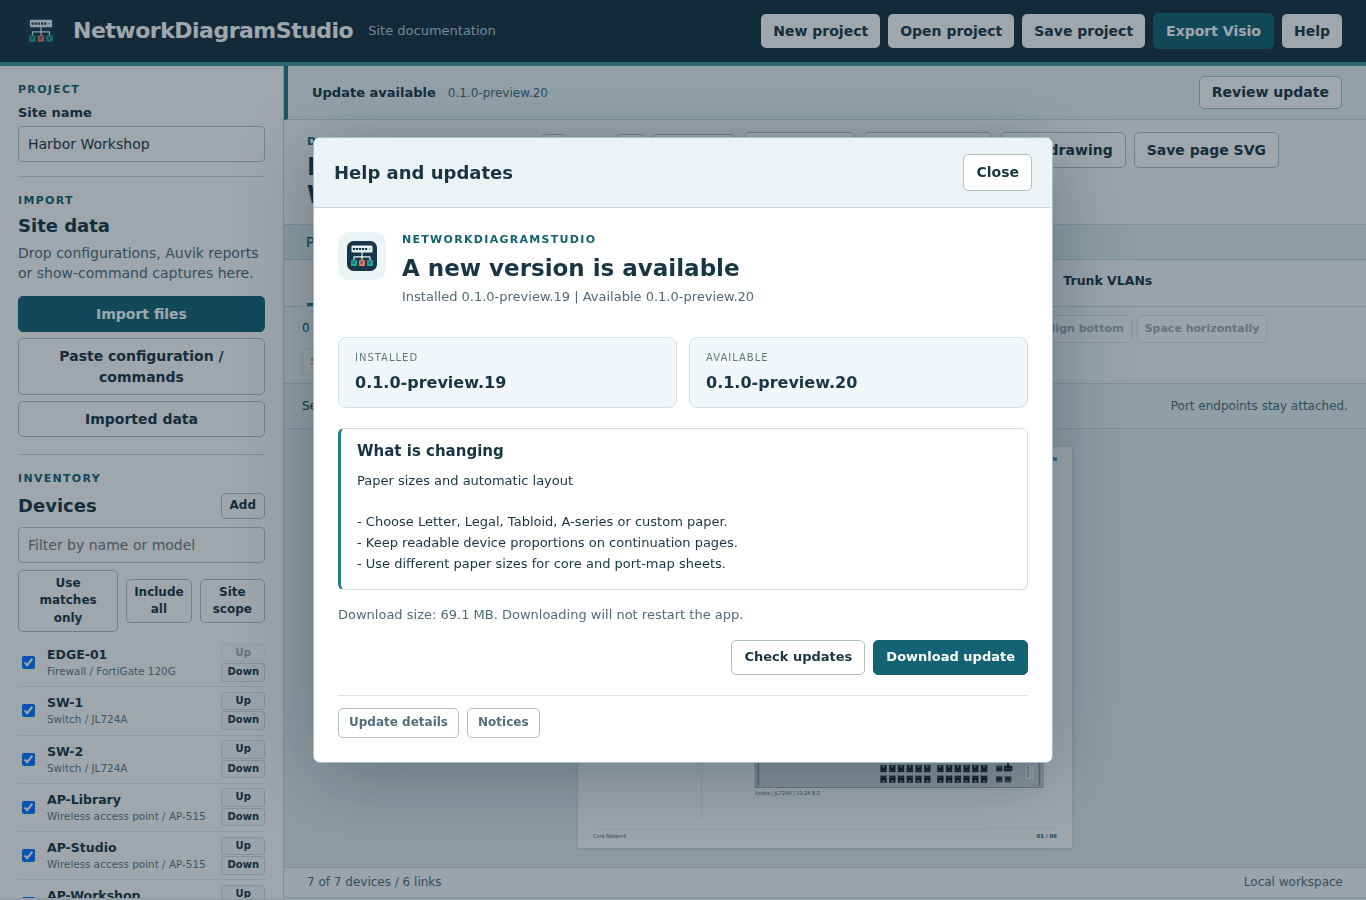
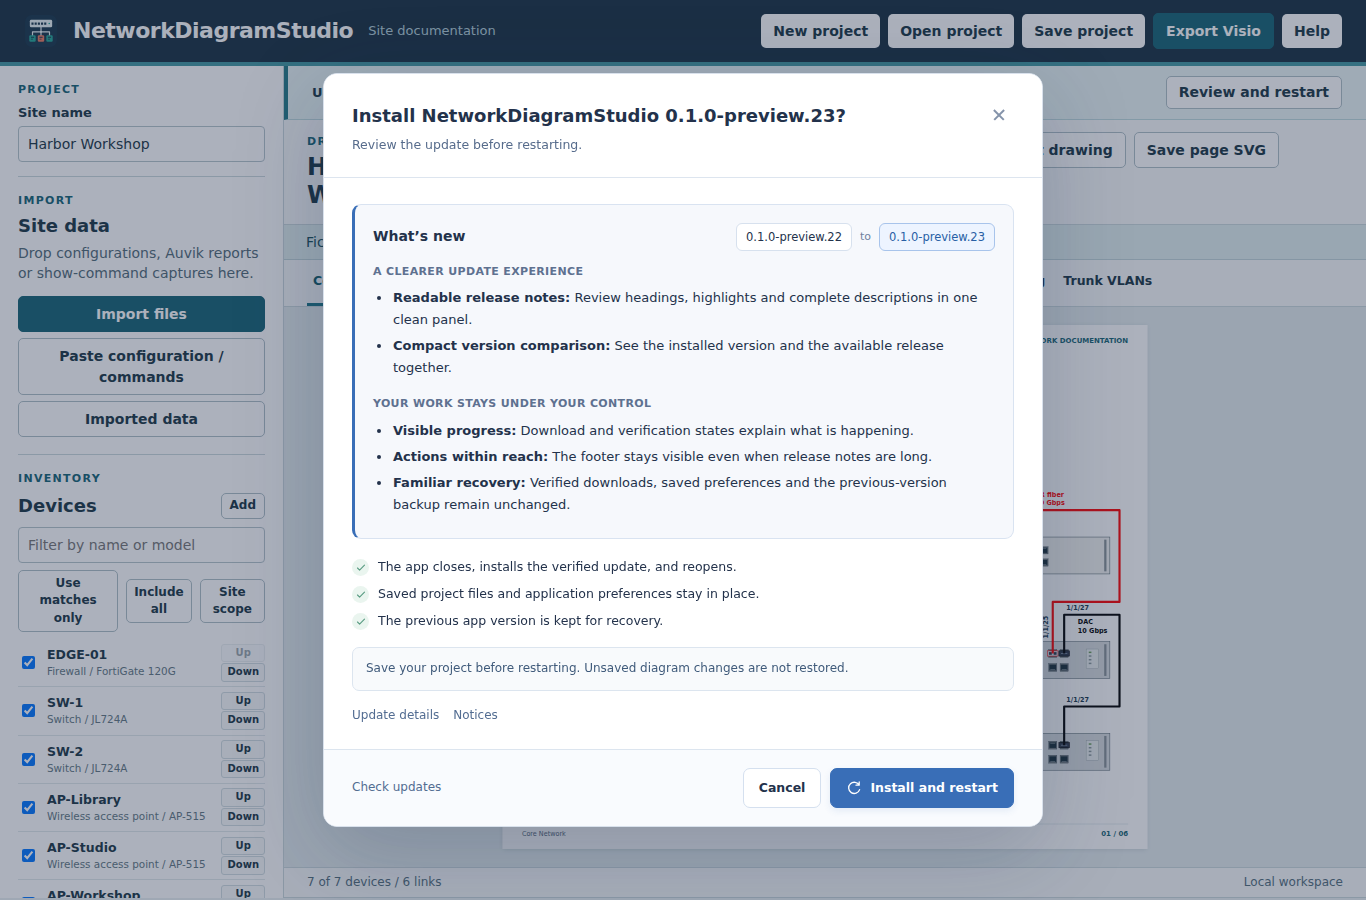
Polish update review with formatted release notes and fixed actions (preview.23)

Changed region(s): [[0.2152, 0.0622, 0.9839, 0.9644], [0.8302, 0.0622, 0.9839, 0.1244]]

diff --git a/src/web/style.css b/src/web/style.css
@@ -34,4 +34,28 @@
 .compact-swatch-properties{grid-template-columns:repeat(4,minmax(0,1fr))}
 @media(max-width:620px){.compact-swatch-properties{grid-template-columns:repeat(2,minmax(0,1fr))}}
 
-.form-columns{display:grid;grid-template-columns:repeat(2,minmax(0,1fr));grid-template-rows:auto auto;grid-auto-flow:column;gap:4px 12px}.form-columns[hidden]{display:none}.page-size-preview{padding:12px;background:#edf5f7;border:1px solid #cbdde2;border-radius:6px}.paper-reset{font-size:12px}.update-banner{display:flex;align-items:center;justify-content:space-between;gap:16px;padding:10px 24px;background:#eaf6f6;border-bottom:1px solid #bedade;border-left:4px solid #227987}.update-banner[hidden]{display:none}.update-banner strong{font-size:13px}.update-banner span{font-size:12px;color:#3e6974;margin-left:12px}.update-banner button{padding:5px 12px;background:#fff}.update-panel{padding:24px!important}.update-intro{display:flex;gap:16px;align-items:flex-start}.update-intro img{width:48px;height:48px;padding:8px;background:#edf4f6;border-radius:12px}.update-intro h2{font-size:23px;line-height:1.25}.update-intro .hint{font-size:13px;overflow-wrap:anywhere}.update-versions{display:grid;grid-template-columns:1fr 1fr;gap:12px;margin:20px 0}.update-versions>div{background:#f2f6f8;border:1px solid #d4e0e5;border-radius:8px;padding:13px 16px}.update-versions span{display:block;font-size:10px;letter-spacing:1px;color:#607782;margin-bottom:5px}.update-versions strong{font-size:16px}.update-notes{border:1px solid #d4e0e5;border-left:3px solid #257d89;border-radius:6px;padding:14px 16px;margin:16px 0}.update-notes h3{margin:0 0 10px}.update-notes>div{max-height:155px;overflow:auto;font-size:13px;line-height:1.6}.update-reminder{color:#526b77;font-size:13px;margin:16px 0}.update-progress>div{font-size:12px;margin-bottom:6px}.update-progress progress{width:100%;height:10px;accent-color:#217b89}.update-actions{display:flex;justify-content:flex-end;gap:8px}.update-support{border-top:1px solid #dbe4e7;margin-top:20px;padding-top:12px;display:flex;gap:8px}.update-support button{font-size:12px;padding:5px 10px;color:#536e7b}.update-panel [hidden]{display:none!important}@media(max-width:600px){.update-panel{padding:16px!important}.update-intro h2{font-size:20px}.update-versions{grid-template-columns:1fr}.form-columns{grid-template-columns:1fr;grid-template-rows:none;grid-auto-flow:row}.update-banner{padding:8px 12px}.update-banner span{display:block;margin:2px 0}}
+.form-columns{display:grid;grid-template-columns:repeat(2,minmax(0,1fr));grid-template-rows:auto auto;grid-auto-flow:column;gap:4px 12px}.form-columns[hidden]{display:none}.page-size-preview{padding:12px;background:#edf5f7;border:1px solid #cbdde2;border-radius:6px}.paper-reset{font-size:12px}@media(max-width:600px){.form-columns{grid-template-columns:1fr;grid-template-rows:none;grid-auto-flow:row}}
+.update-banner{display:flex;align-items:center;justify-content:space-between;gap:16px;padding:10px 24px;background:#eaf6f6;border-bottom:1px solid #bedade;border-left:4px solid #227987}
+.update-banner[hidden]{display:none}.update-banner strong{font-size:13px}.update-banner span{font-size:12px;color:#3e6974;margin-left:12px}.update-banner button{padding:5px 12px;background:#fff}
+#dialog.update-dialog{width:min(720px,calc(100vw - 32px));max-height:min(940px,calc(100dvh - 32px));overflow:hidden;border:1px solid #d9e1ec;border-radius:14px;box-shadow:0 24px 90px #152c4c38;background:#fff;color:#23324b}
+.update-dialog[open]{display:flex;flex-direction:column}.update-dialog::backdrop{background:#23314c60}
+.update-dialog .modalhead{flex:none;align-items:flex-start;gap:18px;padding:26px 28px 6px;background:#fff;border:0}
+.update-dialog #dialog-title{font-size:18px;line-height:1.4;padding-top:3px;overflow-wrap:anywhere}
+.update-dialog #close{flex:none;width:30px;height:30px;padding:0;border:0;background:transparent;color:#8493aa;font-size:0;font-weight:400;border-radius:6px;position:relative}
+.update-dialog #close:before,.update-dialog #close:after{content:'';position:absolute;left:8px;top:14px;width:14px;height:1.5px;background:currentColor;transform:rotate(45deg)}.update-dialog #close:after{transform:rotate(-45deg)}.update-dialog #close:hover{background:#edf2f8;color:#294267}
+#dialog-body.update-panel{padding:0;display:flex;flex-direction:column;min-height:0;overflow:hidden}
+.update-subtitle{flex:none;padding:0 28px 22px;margin:0;border-bottom:1px solid #dde5ef;font-size:12.5px;color:#576c8c;line-height:1.5}
+.update-content{min-height:0;overflow:auto;overscroll-behavior:contain;padding:26px 28px 22px;scrollbar-width:thin;scrollbar-color:#bcc9dc transparent}
+.update-notes{border:1px solid #d9e3f1;border-left:3px solid #396eb7;border-radius:9px;padding:18px;background:#f6f8fc}
+.update-notes-head{display:flex;align-items:center;justify-content:space-between;gap:14px;flex-wrap:wrap;margin-bottom:13px}
+.update-notes-head h2{font-size:14px;line-height:1.4}.update-versions{display:flex;align-items:center;gap:8px;flex-wrap:wrap;font-size:11.5px;line-height:1.4}
+.update-version{padding:5px 9px;border:1px solid #d7e1ee;border-radius:6px;background:#fff;overflow-wrap:anywhere}.update-version-new{border-color:#a8c4eb;color:#285fa5;background:#edf4ff}.update-version-to{color:#70829e;font-size:11px}
+.update-release-notes{font-size:13px;line-height:1.65;overflow-wrap:anywhere}.update-release-notes h3{font-size:11px;line-height:1.5;font-weight:700;letter-spacing:.35px;text-transform:uppercase;color:#5e7190;margin:18px 0 7px}.update-release-notes h3:first-child{margin-top:0}
+.update-release-notes p{margin:9px 0}.update-release-notes ul{padding-left:19px;margin:7px 0 12px}.update-release-notes li{padding-left:1px;margin:5px 0}.update-release-notes>:last-child{margin-bottom:0}.update-release-notes strong{font-weight:650}.update-release-notes code{font:12px/1.6 Consolas,monospace;background:#e8edf5;border-radius:3px;padding:1px 3px}
+.update-state{margin-top:16px;background:#f3f6fb;border:1px solid #dbe4f1;border-radius:8px;padding:13px 15px;color:#435e80}.update-state p{margin:0;font-size:13px;line-height:1.6;overflow-wrap:anywhere}.update-panel[data-phase=error] .update-state{border-color:#e4b6bc;background:#fff7f7;color:#8e303e}
+.update-progress{margin-top:12px}.update-progress>div{font-size:12px;margin-bottom:7px}.update-progress progress{display:block;width:100%;height:8px;accent-color:#396eb7;border:0;border-radius:5px;overflow:hidden}.update-progress progress::-webkit-progress-bar{background:#dce5f1}.update-progress progress::-webkit-progress-value{background:#396eb7}
+.update-assurances{list-style:none;padding:0;margin:18px 0 12px;font-size:12.5px;line-height:1.6}.update-assurances li{display:flex;align-items:flex-start;gap:9px;margin:7px 0}.update-check{display:inline-flex;flex:none;align-items:center;justify-content:center;width:17px;height:17px;margin-top:2px;border-radius:50%;background:#eaf5ef;color:#5a9c83}.update-check svg{width:14px;height:14px}
+.update-reminder{color:#576c8c;font-size:12px;line-height:1.6;margin:16px 0 0}.update-reminder-save{padding:11px 13px;border:1px solid #dce5ef;border-radius:7px;background:#f8fafc;color:#405b7b}
+.update-support{display:flex;gap:14px;margin:13px 0 0}.update-support button,.update-check-action{padding:3px 0;font-size:12px;border:0;background:transparent;color:#536d92;font-weight:400}.update-support button:hover:not(:disabled),.update-check-action:hover:not(:disabled){background:transparent;color:#285fa5;text-decoration:underline}
+.update-footer{flex:none;display:flex;justify-content:space-between;align-items:center;gap:16px;padding:18px 28px;border-top:1px solid #dce5ef;background:#f9fbfe}.update-actions{display:flex;justify-content:flex-end;gap:9px;flex-wrap:wrap}.update-actions button{display:inline-flex;align-items:center;justify-content:center;gap:8px;font-size:12.5px;font-weight:600;padding:10px 15px;border:1px solid #d5e0ef;border-radius:7px;background:white;white-space:nowrap}.update-actions .primary{background:#396eb7;border-color:#396eb7;color:white;box-shadow:0 3px 7px #396eb71c}.update-actions .primary:hover:not(:disabled){background:#2d5f9f;border-color:#2d5f9f}.update-actions svg{width:16px;height:16px;flex:none}.update-panel [hidden]{display:none!important}
+@media(max-width:600px){#dialog.update-dialog{width:calc(100vw - 16px);max-height:calc(100dvh - 16px);border-radius:10px}.update-dialog .modalhead{padding:18px 18px 6px}.update-dialog #dialog-title{font-size:16px}.update-subtitle{padding:0 18px 17px}.update-content{padding:18px}.update-notes{padding:14px}.update-footer{padding:14px 18px;gap:10px;flex-wrap:wrap}.update-actions{margin-left:auto}.update-actions button{padding:9px 11px}.update-banner{padding:8px 12px}.update-banner span{display:block;margin:2px 0}}

diff --git a/src/web/index.html b/src/web/index.html
@@ -23,6 +23,6 @@
 <input hidden id="data-files" type="file" multiple accept=".txt,.cfg,.conf,.config,.log,.rsc,.cli,.xml,.exp,.backup,.csv,.xlsx"><input hidden id="project-file" type="file" accept=".json,.nds"><input hidden id="art-file" type="file" multiple accept=".vss,.vssx,.vssm,.vsx,.vst,.vstx,.vstm,.vtx,.vsd,.vsdx,.vsdm,.vdx,.png,.jpg,.jpeg,.json">
 <input hidden id="art-folder" type="file" multiple webkitdirectory directory>
 <div id="print-set" aria-hidden="true"></div>
-<dialog id="dialog"><div class="modalhead"><h2 id="dialog-title"></h2><button id="close" aria-label="Close dialog">Close</button></div><div id="dialog-body"></div></dialog>
+<dialog id="dialog" aria-labelledby="dialog-title"><div class="modalhead"><h2 id="dialog-title"></h2><button id="close" aria-label="Close dialog">Close</button></div><div id="dialog-body"></div></dialog>
 <script src="./vendor/emfjs.min.js"></script><script type="module" src="./app.mjs"></script>
 </body></html>

diff --git a/tests/desktop/NativeSmoke.cs b/tests/desktop/NativeSmoke.cs
@@ -125,7 +125,7 @@ internal sealed partial class Studio
     internal async Task CheckUpdateFromHelp(string expected,bool available)
     {
         await ClickEditorTarget("#desktop-help");
-        await RequireEditor("if(!document.getElementById('dialog').open||document.getElementById('dialog-title').textContent!=='Help and updates')throw Error('Help did not open');for(const name of ['Check updates','Update details','Notices'])if(![...document.querySelectorAll('#dialog button')].some(b=>b.textContent===name))throw Error('Missing Help action '+name)","Help actions");
+        await RequireEditor("if(!document.getElementById('dialog').open||!document.getElementById('dialog').classList.contains('update-dialog')||!document.getElementById('dialog-title').textContent)throw Error('Help did not open');for(const name of ['Check updates','Update details','Notices'])if(![...document.querySelectorAll('#dialog button')].some(b=>b.textContent===name))throw Error('Missing Help action '+name)","Help actions");
         await ClickEditorTarget("#desktop-check-updates");
         for(int i=0;i<50&&!checking;i++)await Task.Delay(20);
         if(!checking)throw new Exception("Help did not start an update check.");

diff --git a/README.md b/README.md
@@ -28,31 +28,23 @@ Network engineers can use the Windows application or the offline browser edition
 
 ## Screenshots
 
-Shared family drawings retain actual port names and explicitly identify an unconfirmed SKU.
+**Shared family drawings with model-confirmation guidance**
 
 <p align="center"><img src="docs/images/hardware-families.png" width="900" alt="Fictional FortiGate 201G, Cisco 9500 family and compact Aruba family with mapped links"></p>
 
-<p align="center"><img src="docs/images/hardware-confirmation.png" width="750" alt="Device details explaining the family evidence and model confirmation"></p>
-
-Modular chassis keep their proportions, slot identities and editable physical sockets.
+**Modular chassis with proportional slots and editable sockets**
 
 <p align="center"><img src="docs/images/modular-port-map.png" width="900" alt="Fictional Aruba 5406R chassis with installed optical and copper cards and grouped port details"></p>
-
-**Paper sizes and orientation**
-
-![Paper size and orientation controls](docs/images/page-options.png)
-
-**Update review and release notes**
-
-![Update review panel with fictional release data](docs/images/update-panel.png)
 
 **Stack and switch port maps at a common scale**
 
 <p align="center"><img src="docs/images/port-map.png" width="900" alt="Fictional two-member stack and standalone switch with equal faceplate widths and a shared assignment table"></p>
 
-**Wireless model and MAC details**
+**Update review with formatted notes and fixed actions**
 
-<p align="center"><img src="docs/images/wireless-models.png" width="900" alt="Eight fictional access points with model, MAC, interface and link details on one sheet"></p>
+![Polished install review with formatted release notes and fixed actions](docs/images/update-panel.png)
+
+More views: [Model confirmation](docs/images/hardware-confirmation.png), [paper size controls](docs/images/page-options.png), and [wireless model and MAC details](docs/images/wireless-models.png).
 
 ## Download
 
@@ -134,7 +126,7 @@ Select **Stack members and installed modules** in Device details to confirm hard
 
 ## Updates and settings
 
-Help opens an update panel with installed and available versions, full release notes, download progress, verification status and an explicit Install and restart action. A compact notice appears only when a newer release is available. Automatic checks and verified download/rollback behavior are unchanged.
+Help opens a polished update review with compact installed/available version labels, formatted release headings and bullets, download progress, verification status and a fixed action footer. Long notes scroll inside the review while the close and install controls stay visible. The install screen explains recovery and reminds you to save unsaved diagram changes before restarting. A compact notice appears only when a newer release is available. Automatic checks and verified download/rollback behavior are unchanged.
 
 For mixed-size printing, retain the document paper sizes in your print/PDF settings. Physical printers and custom forms must support the selected sizes. Visio drawing dimensions and standard printer paper kinds are exported separately; select a matching printer form for custom sizes.
 

diff --git a/DEVELOPMENT_HANDOFF.md b/DEVELOPMENT_HANDOFF.md
@@ -1,3 +1,11 @@
+## Preview.23 polished update review
+
+Prepares 0.1.0-preview.23 / file version 0.1.0.23 from published preview.22 at 30867b32f8b95952091185b3756ad72671266588. Preview.22 passed PR #18 Windows run 42408150968 and merged-main publication run 42408769625; the public feed, tag, downloaded checksums, Windows version/icon and 62 offline modules were verified. Standing build/release authorization continues. Require exact-head Windows success, merged-main publication and verification of public downloads before announcing preview.23.
+
+The update review follows the supplied Configuration Inspector example: a clean white header, compact version labels, a softly tinted release card, formatted headings/bullets/emphasis, recovery statements and a pinned action footer. Only the central content scrolls in small windows or for long notes. Native progress does not rebuild the notes or replace focused buttons. Remote release text stays inert, including HTML-looking content and links. The shared dialog close target stays visible; other dialogs reset the scoped styling. The existing native final save/restart confirmation, busy guards, update cadence, feed, verified binary handling and rollback remain unchanged. Unsaved diagrams are explicitly not claimed to be restored.
+
+Validation passed all 188 Node tests and direct browser tests for available/checking/error/downloading/verifying/ready states, downloads and install actions, busy guards, safe remote notes, fixed-footer geometry at 1366x900, 1366x768, 720x520 and 390x640, long-note scroll/focus retention, close/Escape, and opening other dialogs afterward. The README uses an actual application capture with fictional release data. Final Windows and publication checks remain required.
+
 # Development handoff
 
 ## Preview.22 configuration recognition and physical layouts

diff --git a/AGENTS.md b/AGENTS.md
@@ -108,3 +108,5 @@ Port-map and wireless planners must measure full hardware at a common width for 
 The native lifecycle harness must isolate its deterministic HTTP fixture from live-feed cache state written by a restored production window. On the disposable Actions profile only, remove release-cache.json before fixture installation and deliberately seed a future pause to cover this boundary. Require a real fixture lookup and update offer before downloading. Never weaken production rate-limit pauses, readiness checks or rollback to make the harness pass.
 
 Family-layout inference requires a complete port signature plus platform evidence. Keep family-only geometry distinct from exact SKU and optical speed claims. Declared identities supersede inferred families in either import order, while disabling evidence or manual edits retains normal provenance behavior. Reject NUL-bearing restore backups with readable-export guidance instead of extracting a misleading partial device. Manufacturer geometry corrections belong in researched-layouts.mjs with primary references; retain slot-qualified anchors and labeled unknown-member fallback artwork without fabricated sockets.
+
+The update review uses the shared dialog with a scoped update-dialog class and a fixed action footer. Preserve the visible #close target for native input tests and reset styling when another dialog opens. Render release headings, bullets and inline emphasis with DOM text nodes only; never interpret remote HTML or activate release-note links. Keep notes scroll position and button focus through native progress refreshes. Do not promise restoration of unsaved projects; retain the native final save/restart confirmation and all existing download/install guards.

diff --git a/docs/releases/0.1.0-preview.23.md b/docs/releases/0.1.0-preview.23.md
@@ -1,0 +1,15 @@
+# NetworkDiagramStudio 0.1.0-preview.23
+
+## A clearer update experience
+
+- **Readable release notes:** Review section headings, highlights, bullet lists and complete descriptions in one clean panel inspired by Configuration Inspector.
+- **Compact version comparison:** See the installed version and the available release together, without oversized version cards.
+
+## Your work stays under your control
+
+- **Visible progress:** Download and verification states explain what is happening. Close the review to keep working and reopen it to see current progress.
+- **Actions within reach:** The footer stays visible when release notes are long or the app window is small. Cancel, Check updates and Install and restart remain easy to reach.
+- **Clear restart guidance:** The install screen explains recovery and reminds you to save your project. Saved project files and preferences are retained; unsaved diagram changes are not automatically restored.
+- **Familiar recovery:** The existing verified download, separate installation confirmation, busy checks, automatic check timing and previous-version backup remain unchanged.
+
+Existing projects, hardware layouts and drawing edits are unchanged. The redesigned screen appears after installing this version; the update from an older version uses that version's existing screen.
